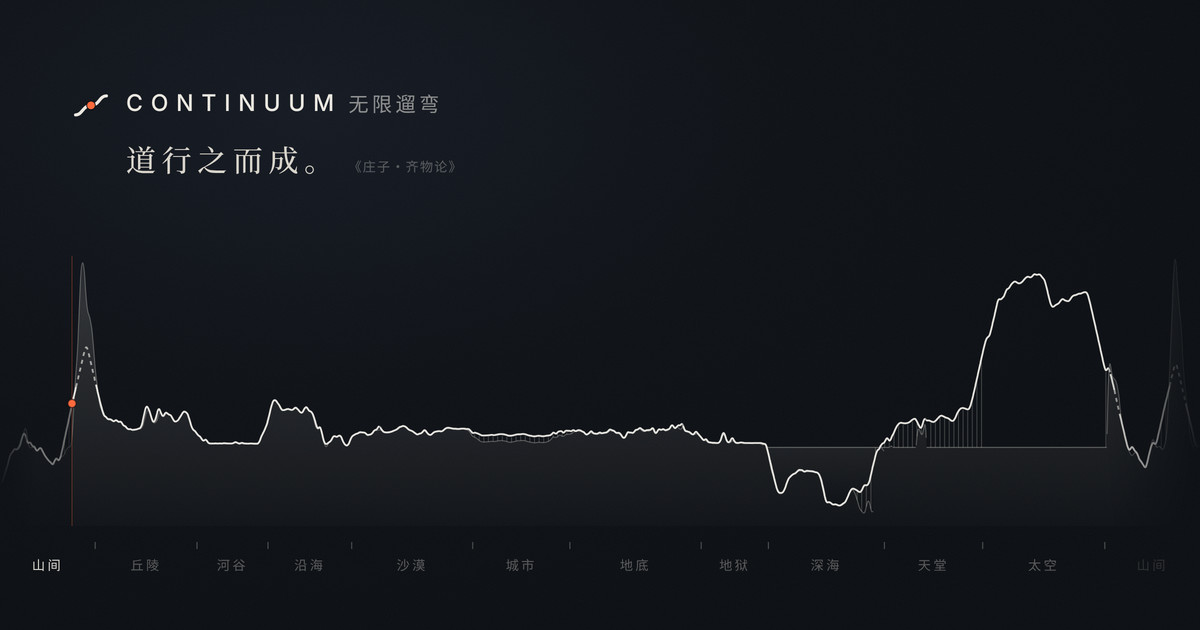
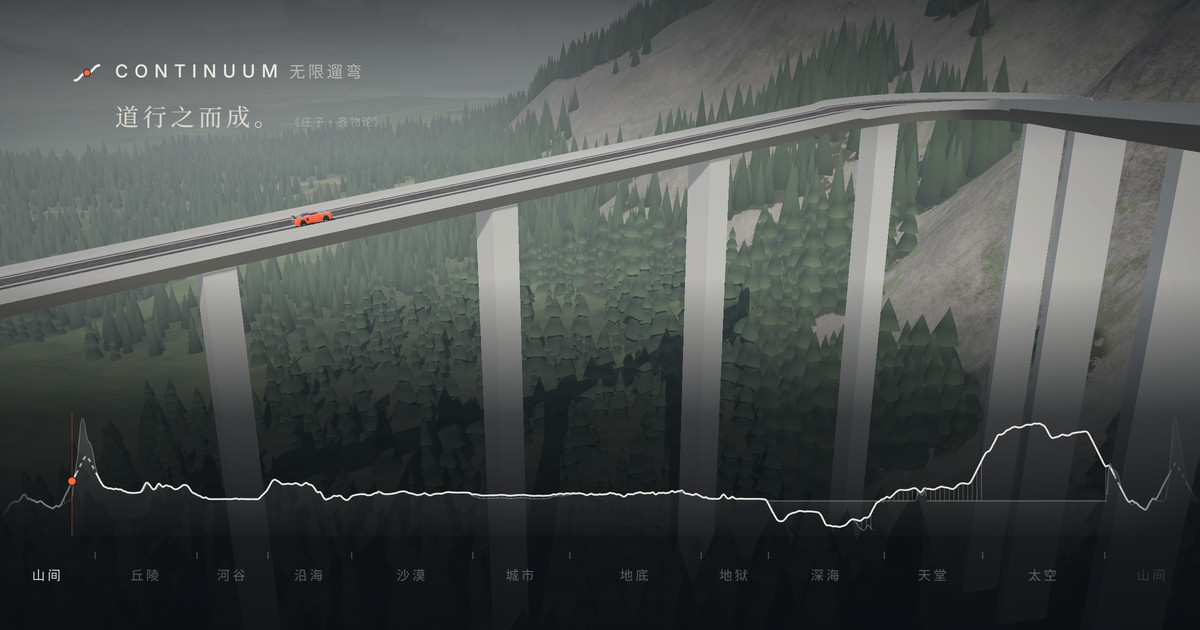
✨ feat(brand): the og image is the viaduct with the loop over it
docs/assets/og.jpg is now d: the seed-7 viaduct seen from across the
valley, full bleed, with the profile of one loop of the road through
the eleven worlds across the foot of the frame. The og:image:alt text
says so, and the design notes and build.py name d as the live one; c,
a, b and b2 stay buildable.

diff --git a/index.html b/index.html
@@ -18,7 +18,7 @@
 <meta property="og:image:type" content="image/jpeg">
 <meta property="og:image:width" content="1200">
 <meta property="og:image:height" content="630">
-<meta property="og:image:alt" content="一条公路的纵断面，穿过十一个世界；橙色的点是车。">
+<meta property="og:image:alt" content="从河谷对岸看盘山高架，下方是一条穿过十一个世界的公路纵断面。">
 <meta name="twitter:card" content="summary_large_image">
 <link rel="icon" href="docs/assets/favicon-32.png" sizes="32x32" type="image/png">
 <link rel="icon" href="docs/assets/favicon.svg" type="image/svg+xml">

diff --git a/tools/brand/build.py b/tools/brand/build.py
@@ -7,7 +7,7 @@ image candidates.
   python3 tools/brand/build.py og [a b b2 c d]  out/brand/og-<v>.jpg, 1200x630, under 200 KB
   python3 tools/brand/build.py install <v>     copy out/brand/og-<v>.jpg to docs/assets/og.jpg
 
-The og candidates (docs/assets/og.jpg is c):
+The og images (docs/assets/og.jpg is d):
   a   drawing sheet: an aerial frame with the design line, chainage stakes
       and a title block
   b   film frame: the hairpin on the seed-7 viaduct, letterboxed 2.39:1
